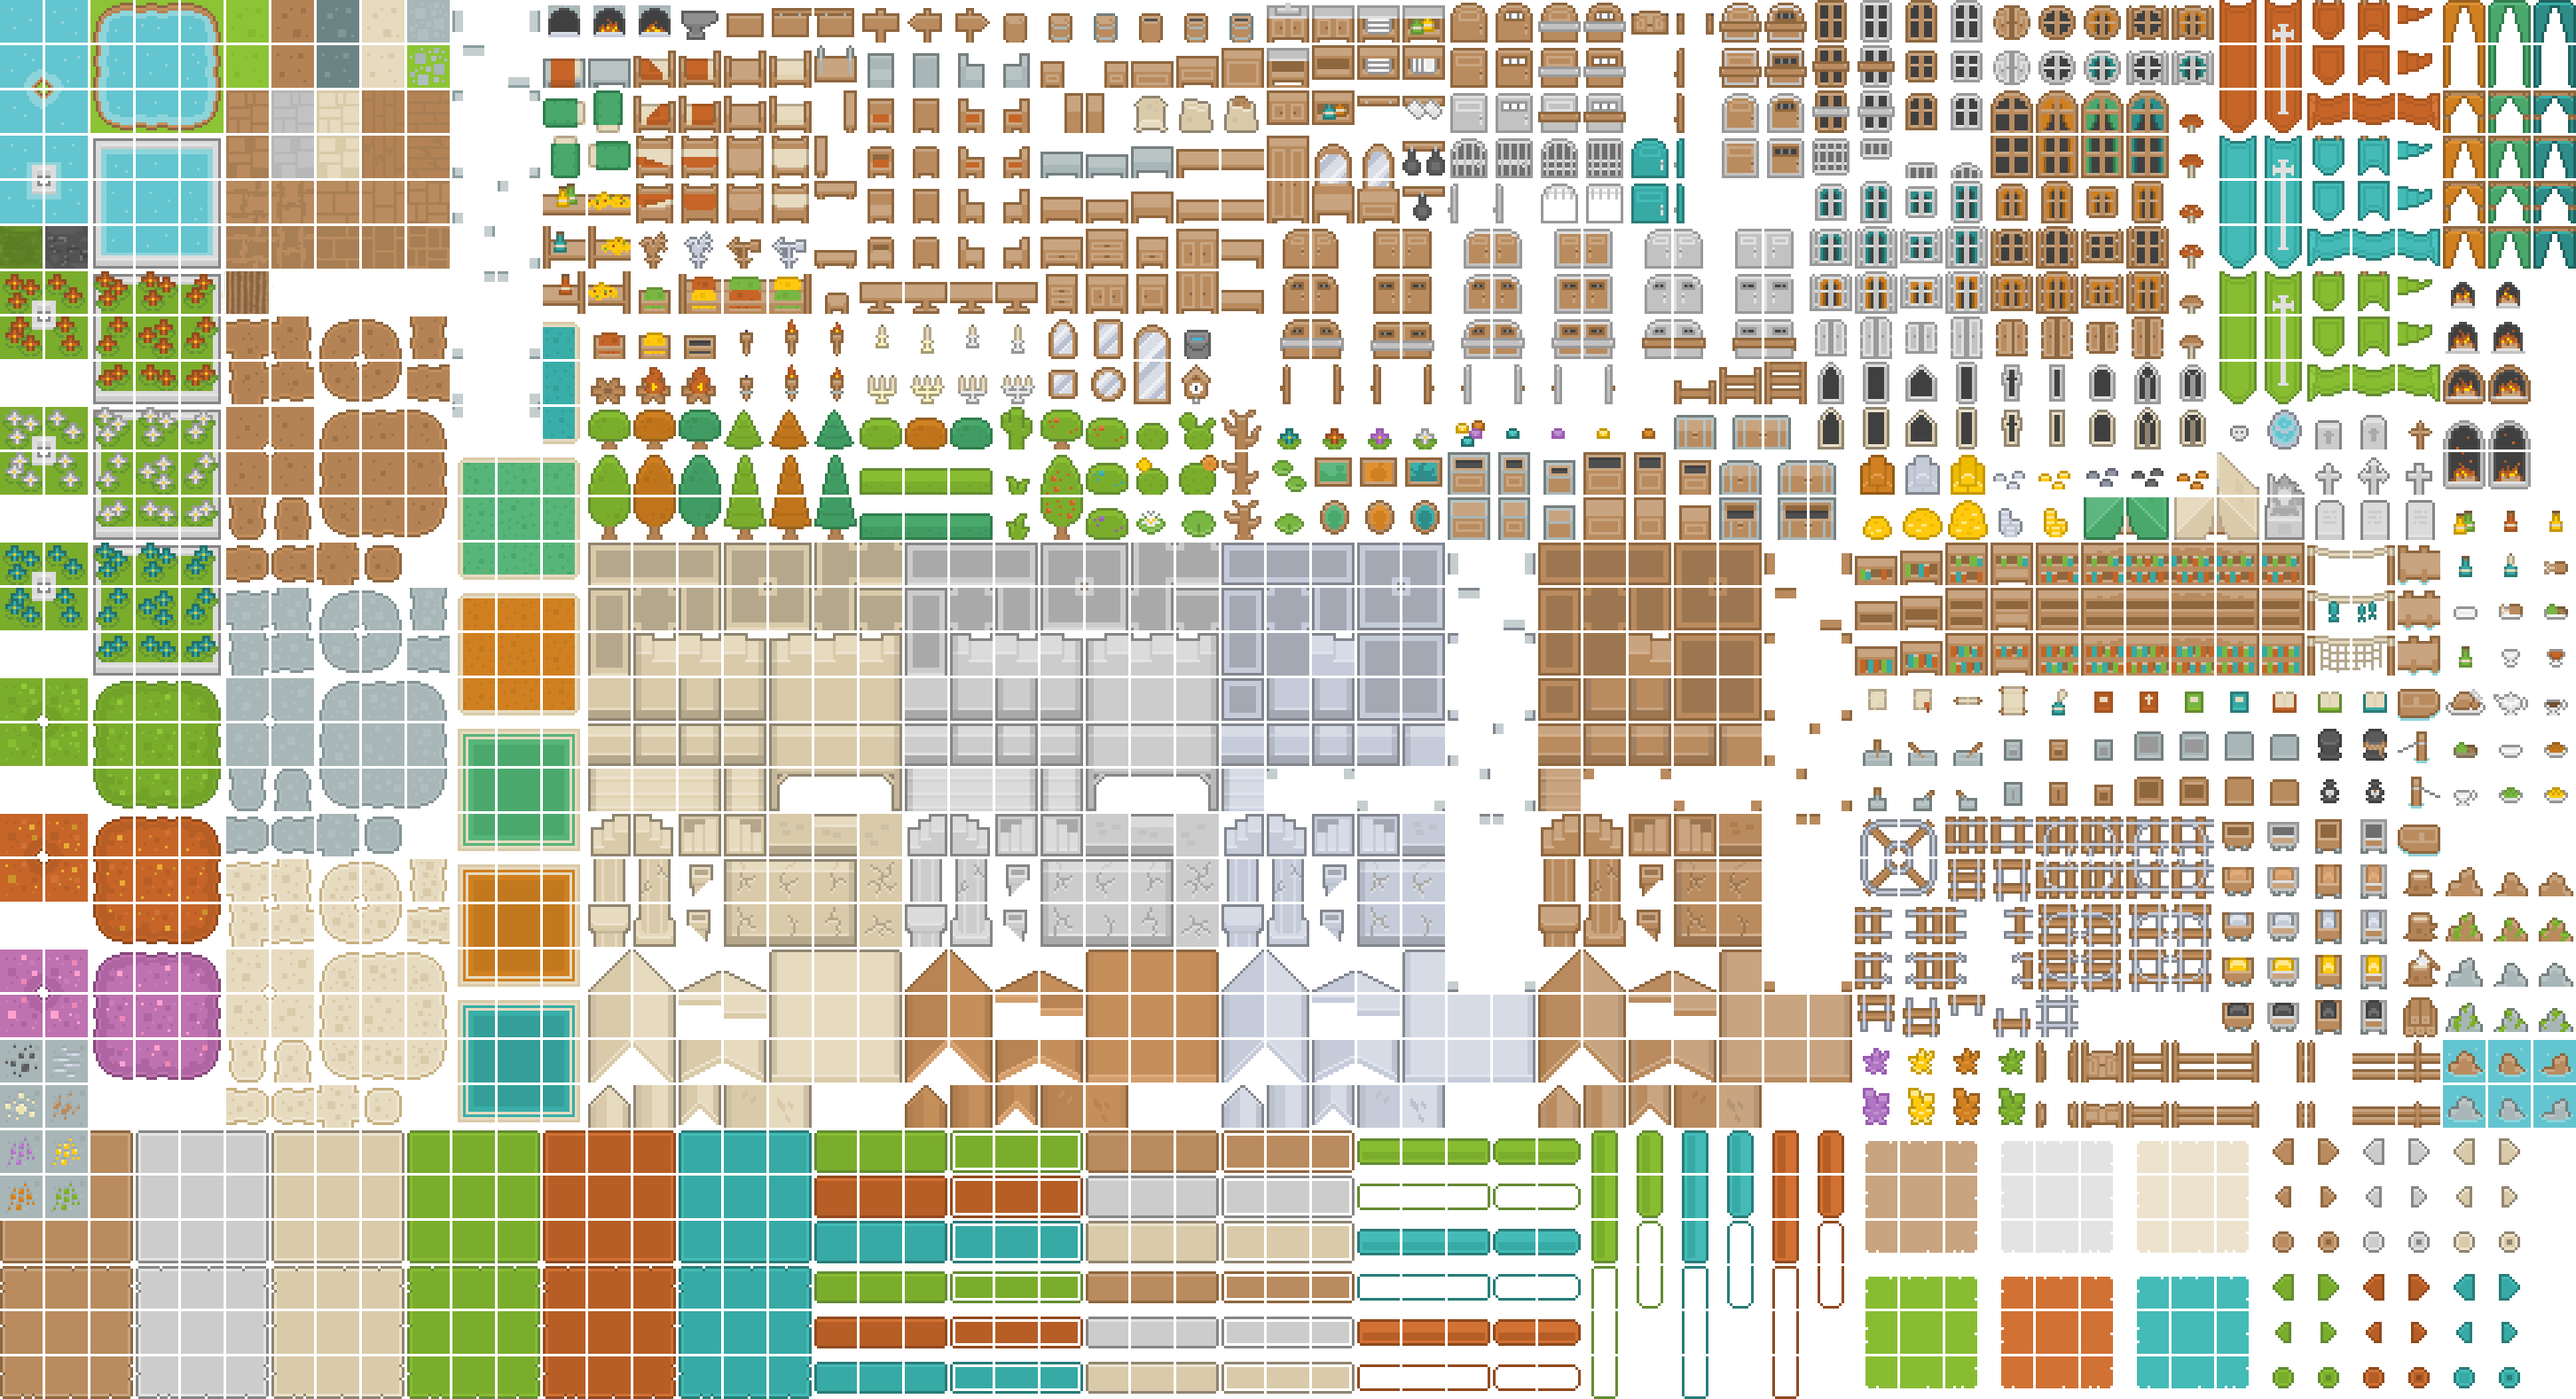
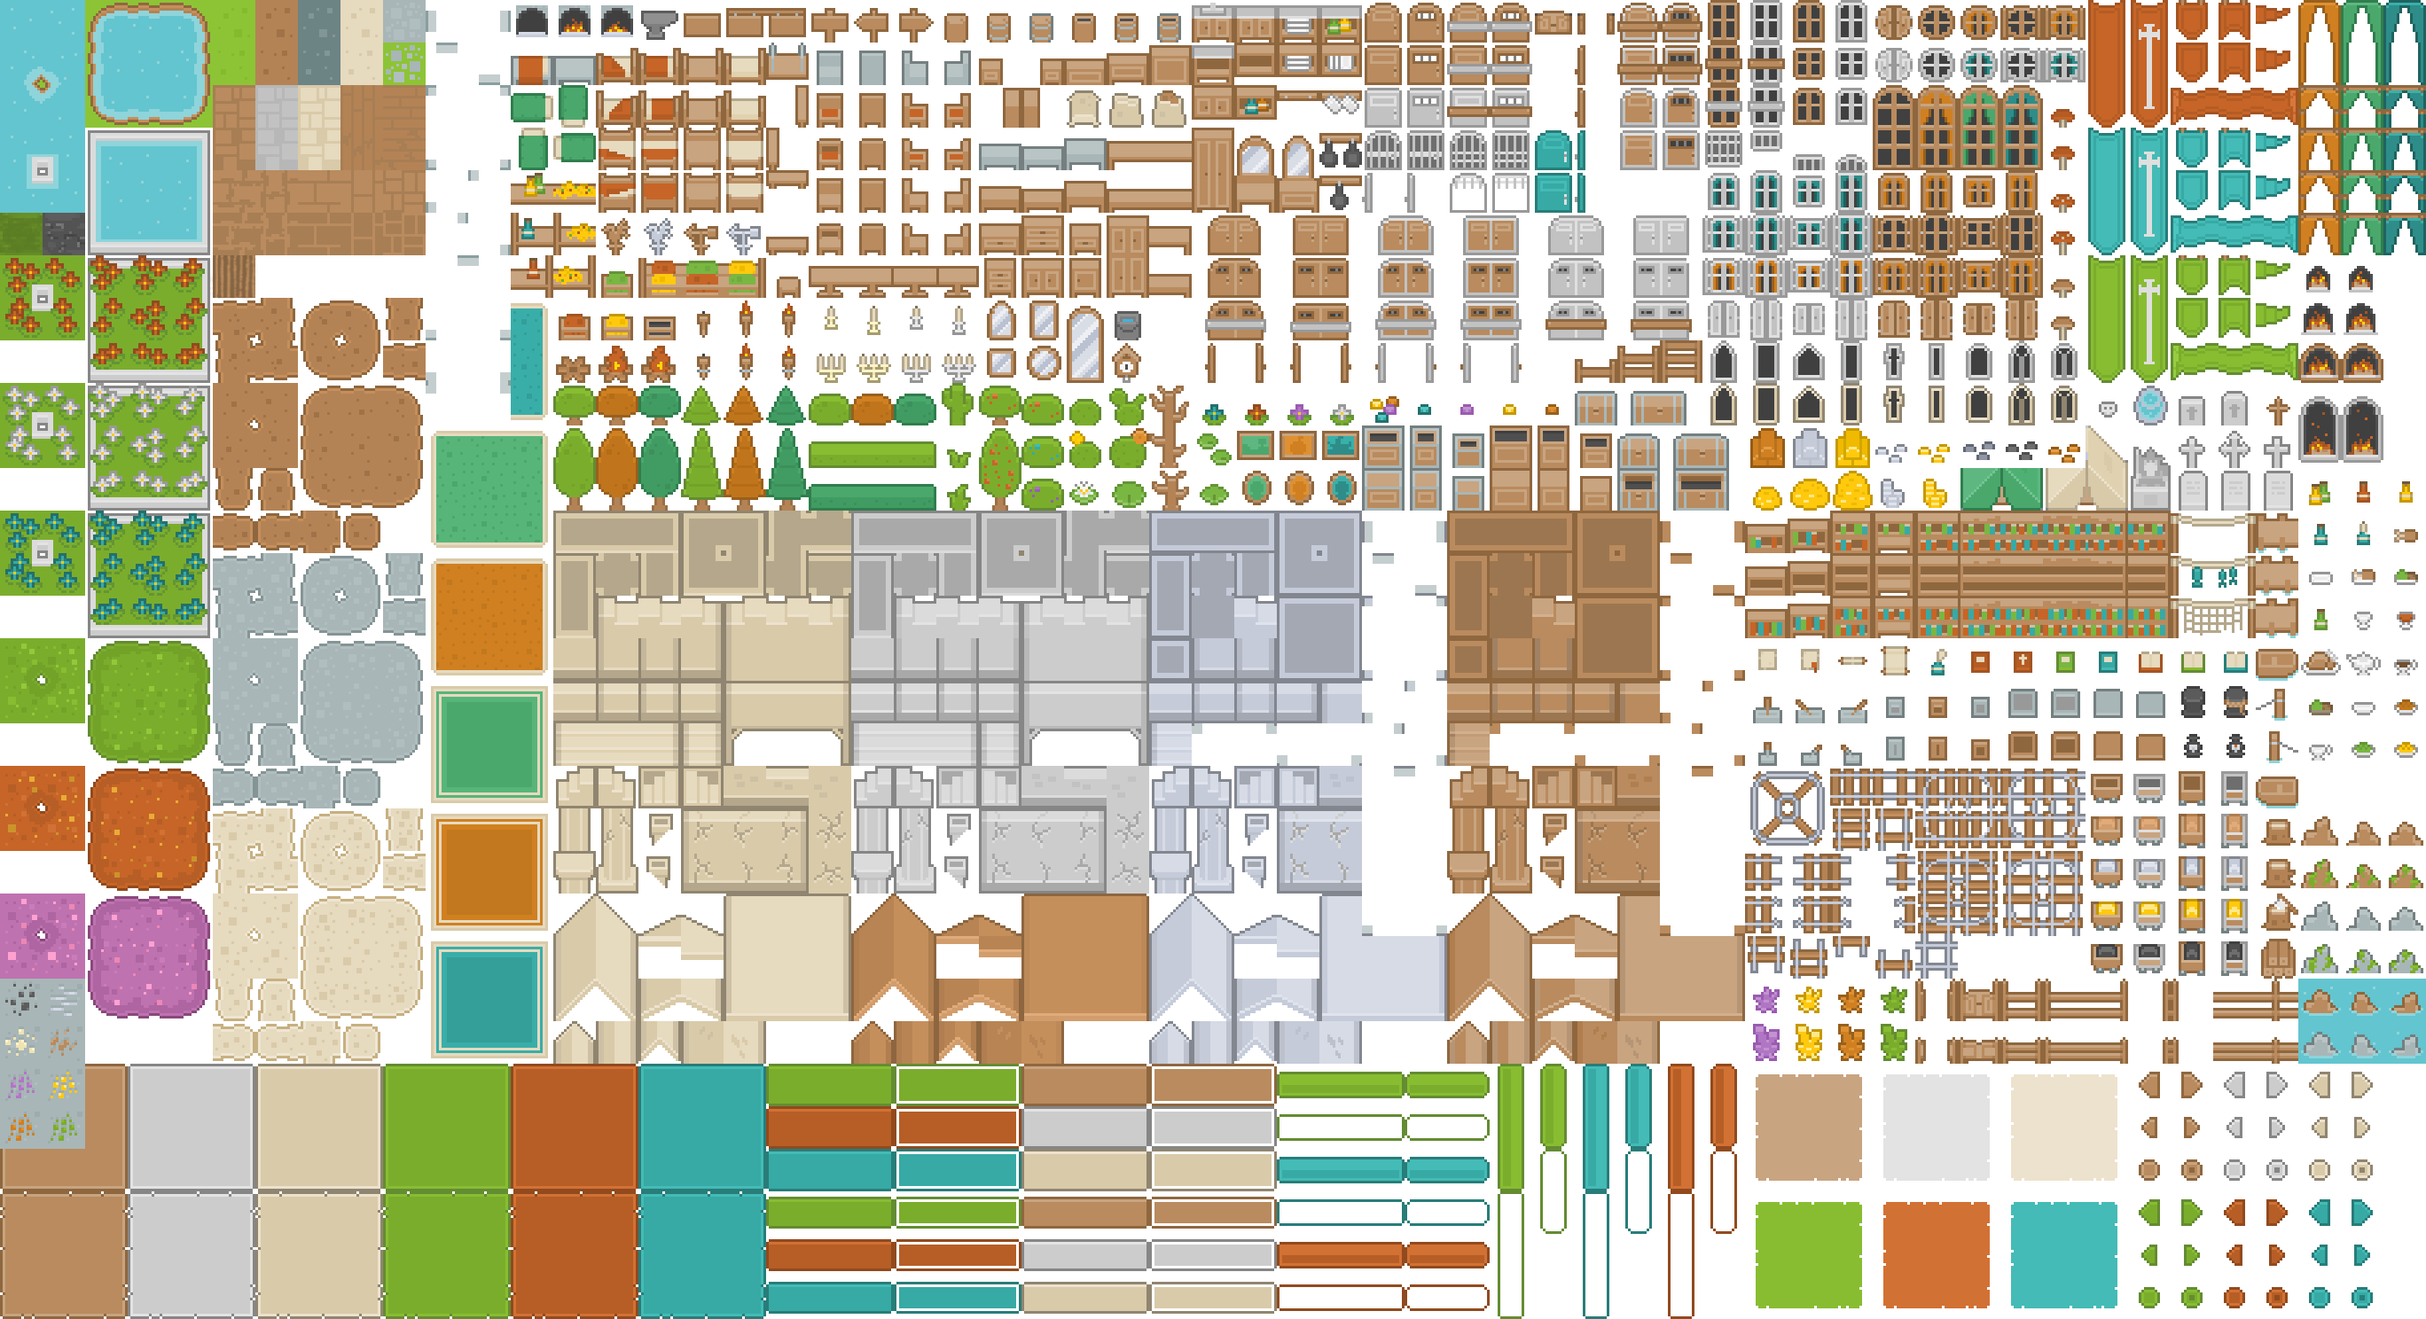
Removed margins from texture atlas's

diff --git a/src/main/java/graphics/SpritesheetHashtable.java b/src/main/java/graphics/SpritesheetHashtable.java
@@ -17,9 +17,9 @@ public class SpritesheetHashtable {
 	}
 
 	public static void registerSpritesheets() throws Exception { //registers all spritesheets by id
-		registerSpritesheet(1, new Spritesheet("/tiles.png", 3));
-		registerSpritesheet(2, new Spritesheet("/characters.png", 3));
-		registerSpritesheet(3, new Spritesheet("/indoor.png", 3));
+		registerSpritesheet(1, new Spritesheet("/tiles.png", 0));
+		registerSpritesheet(2, new Spritesheet("/characters.png", 0));
+		registerSpritesheet(3, new Spritesheet("/indoor.png", 0));
 	}
 
 }

diff --git a/src/main/java/graphics/OpenglUtils.java b/src/main/java/graphics/OpenglUtils.java
@@ -48,7 +48,6 @@ public abstract class OpenglUtils {
 
 	public static void drawTexturedQuadScaled(int id, int x, int y, int size) { //drawTexturedQuadScaled ingame shit which needs to be scaled up
 		drawTexturedQuadScaled(x,y,size,size,id);
-
 	}
 
 	public static void drawTexturedQuadScaled(int x, int y, int width, int height, int texture) {
